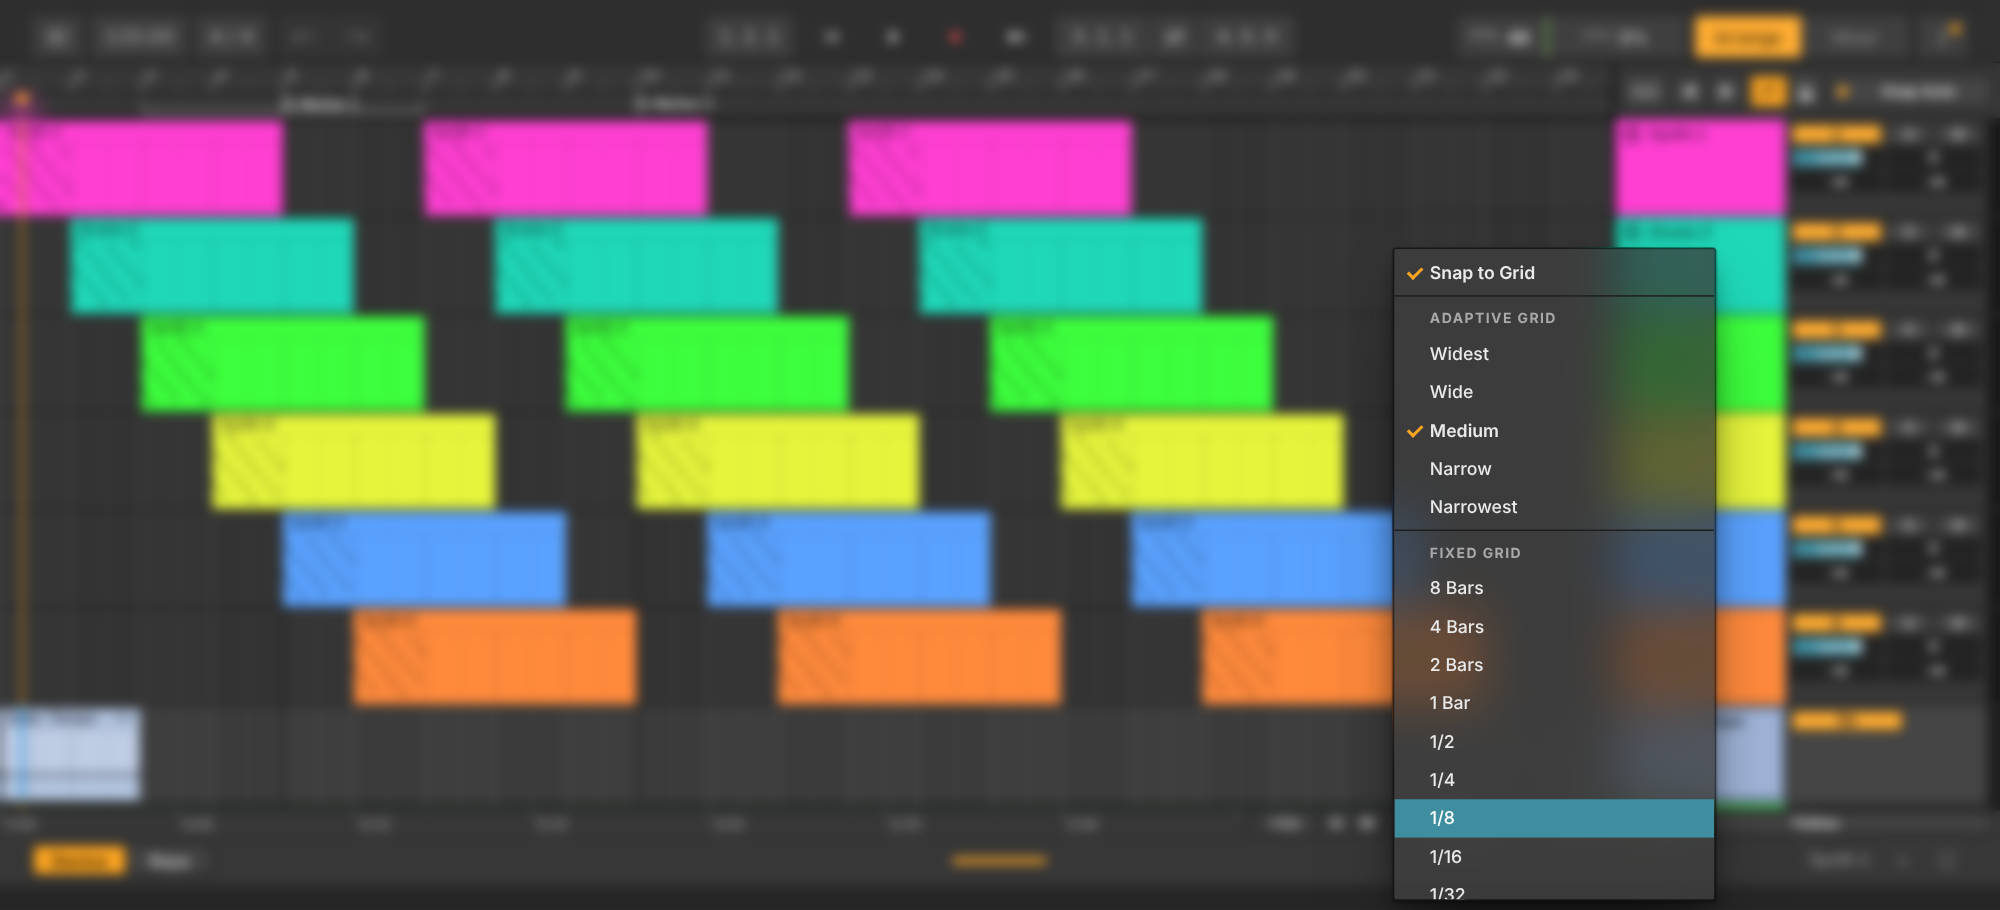
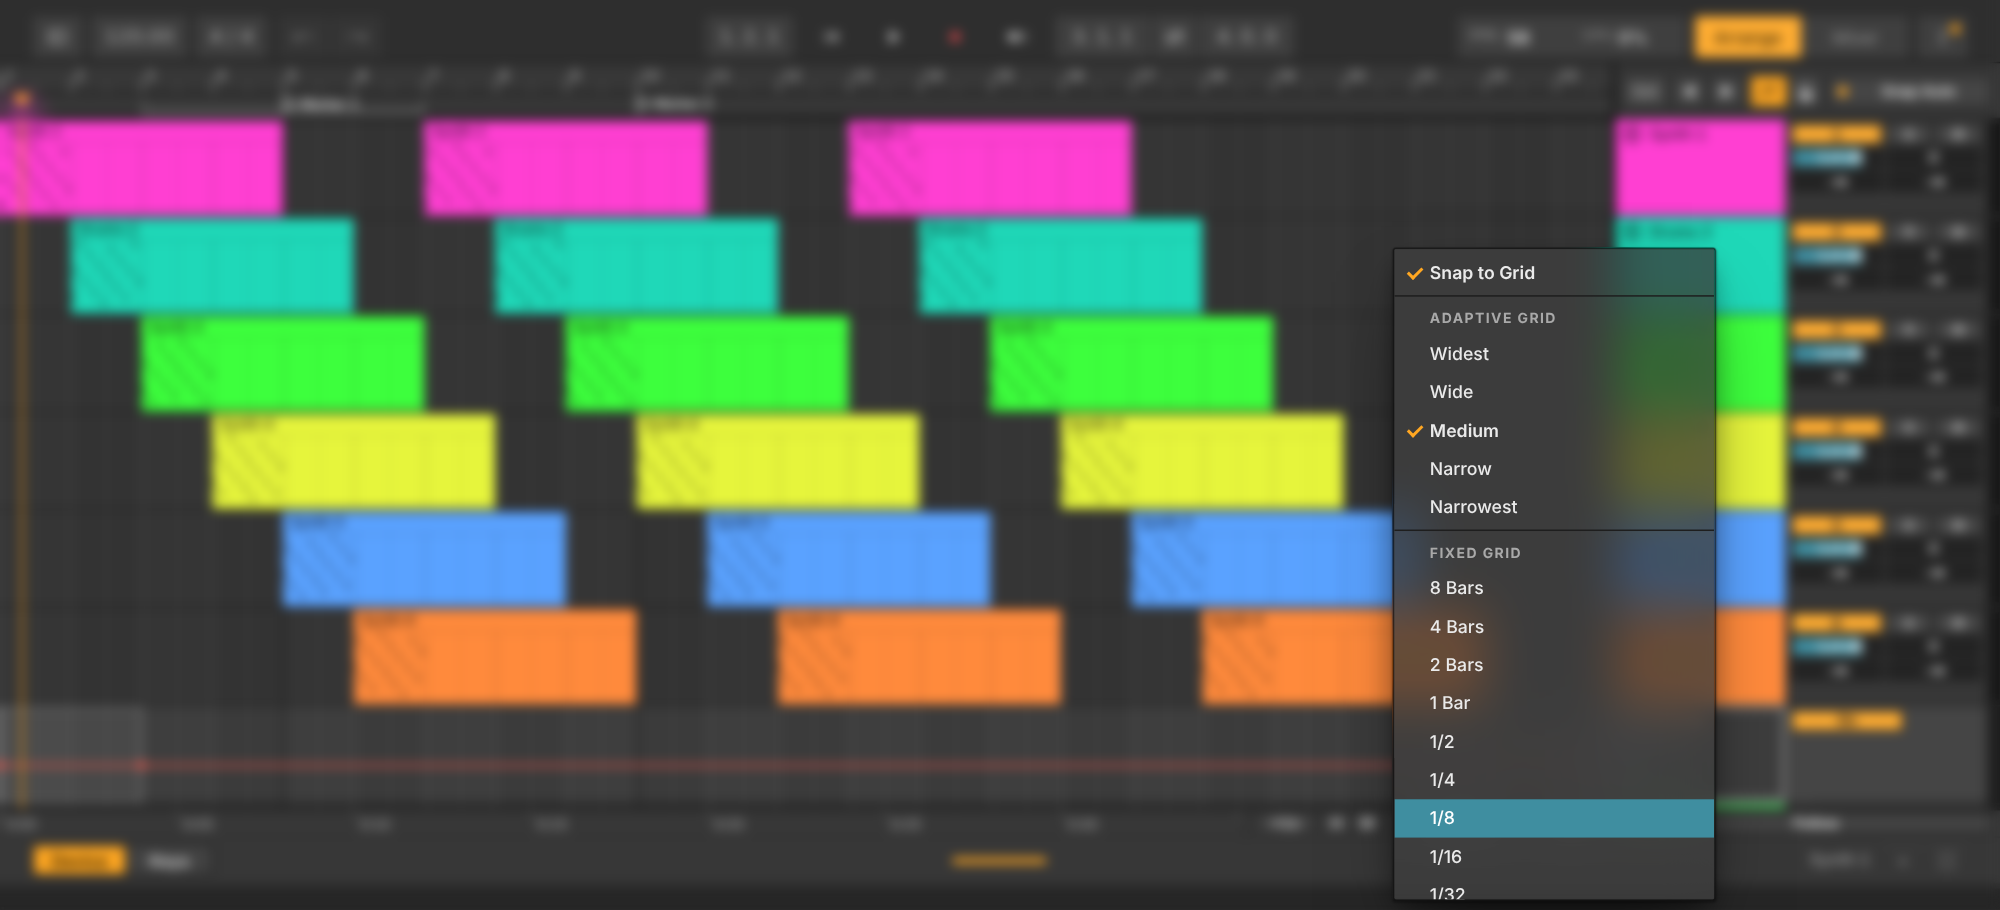
Automation lanes and Main row after Live 12
- automation lanes without clip boxes: one red envelope across the lane, small round breakpoints,
  a slightly darker lane, a grey header with the parent track's colour stripe and the parameter name
- Master / return lanes without a colour wash

Claude-Session: https://claude.ai/code/session_016R99TjSh2G5U2VqVgMNHhT

Changed region(s): [[0.0, 0.7692, 0.682, 0.8923], [0.806, 0.7692, 0.899, 0.8923]]

diff --git a/js/timeline.js b/js/timeline.js
@@ -218,6 +218,9 @@ function ink(hex) {                     // text on a colour: dark on light colou
 
 const contentInk = (hex) => (ink(hex).startsWith('rgba(14') ? 'rgba(10,10,12,.86)' : 'rgba(250,250,252,.88)');   // Live: black content on light clip colours, white on dark ones
 function drawClip(t, c, y, hh) {
+  if (t.kind === 'auto') {                                                    // Live 12: automation has no clip boxes - the lane's envelope is drawn by drawEnvelopes; a selected
+    if (state.sel.clip === c.id || msel.has(c.id)) { const x = tx(c.start), w = c.len * view.ppt; ctx.fillStyle = 'rgba(255,255,255,.07)'; ctx.fillRect(x, y + 1, w, hh - 2); ctx.strokeStyle = 'rgba(255,255,255,.35)'; ctx.lineWidth = 1; ctx.strokeRect(Math.round(x) + 0.5, y + 1.5, Math.max(1, Math.round(w) - 1), hh - 3); }   // piece shows as a light frame
+    return; }
   if (t.fold && t.kind !== 'auto') {                                         // Live: a folded track shows its clips as a thin band in their colour
     const g0 = gl.get(c.id), x = tx(g0 ? g0.s : c.start), w = (g0 ? g0.l : c.len) * view.ppt; if (x > CW || x + w < 0) return;
     const col = c.muted ? '#8a8a8f' : tone(t.color), by = y + 1, bh2 = hh - 2;   // Live 12 (refs/live12-official 04): the folded row is filled by the clip colour, "..." at its start
@@ -337,7 +340,7 @@ function draw() {
   // lanes: one flat grey per track, the selected track a step lighter (as Live highlights the selected track's lane)
   for (let i = Math.max(0, rowAt(RULER)); i <= Math.min(n - 1, rowAt(LB)); i++) {
     const y = rowY(i), h = rh(i); if (h < 2) continue;   // a hidden automation lane (Automation Mode off)
-    ctx.fillStyle = state.sel.track === i ? C('#333337') : C('#2a2a2c'); ctx.fillRect(0, y, CW, h);
+    ctx.fillStyle = state.sel.track === i ? C('#333337') : state.tracks[i].kind === 'auto' ? C('#262628') : C('#2a2a2c'); ctx.fillRect(0, y, CW, h);   // automation lanes a shade darker (Live)
     const sn = subN(state.tracks[i]);
     if (sn) { const mh = rhMain(i), sh = SUBH(), L = P.subsOf(state.tracks[i]); for (let k = 0; k < sn; k++) { const sy = y + mh + k * sh; ctx.fillStyle = C('#262628'); ctx.fillRect(0, sy, CW, sh); if (L[k].mute) { ctx.fillStyle = 'rgba(0,0,0,.18)'; ctx.fillRect(0, sy, CW, sh); } ctx.fillStyle = C('#1a1a1c'); ctx.fillRect(0, sy - 1, CW, 1); } }   // sub-track rows: a shade darker, a thin line above each
     ctx.fillStyle = C('#141416'); ctx.fillRect(0, y + h - 1, CW, 1);                     // Live 12 (refs/live12-official): a thin dark line between tracks
@@ -346,7 +349,7 @@ function draw() {
   for (let i = Math.max(n, rowAt(RULER)); i < nn && i <= rowAt(LB); i++) {             // Master / effect track rows: no clips, they only mix
     const y = rowY(i), h = rh(i), x = xInfo(i);
     ctx.fillStyle = state.sel.track === x.strip ? C('#2f2f33') : C('#252527'); ctx.fillRect(0, y, CW, h);   // theme background first, so the tint below is a real transparent wash in dark AND light themes
-    ctx.fillStyle = washRgba(x.color, 0.06); ctx.fillRect(0, y, CW, h); ctx.fillStyle = C('#141415'); ctx.fillRect(0, y + h - 1, CW, 1);
+     ctx.fillStyle = C('#141415'); ctx.fillRect(0, y + h - 1, CW, 1);
     const src = x.master ? state.tracks.filter((q) => q.kind !== 'auto' && !q.mute).length : state.tracks.filter((q) => q.out === x.k && !q.mute).length;
     xl.push({ y, h, t: `${src} track aktif → ${x.name}` });
   }
@@ -393,6 +396,18 @@ function draw() {
   const first = Math.max(0, rowAt(RULER)), last = Math.min(n - 1, rowAt(LB));
   for (let i = first; i <= last; i++) for (const c of state.tracks[i].clips) { const b = laneBox(i, c); if (b.h < 2) continue; drawClip(state.tracks[i], c, b.y, b.h); }   // a clip of a sub-track sits in its row
   drawHandles();
+  // automation lanes: one continuous envelope across the lane (Live 12): red line, the value held before the first and after the last point,
+  // small round breakpoints; the lane a shade darker than a track's
+  for (let i = first; i <= last; i++) { const t = state.tracks[i]; if (t.kind !== 'auto' || rh(i) < 12) continue;
+    const y0 = rowY(i) + 6, hh = rh(i) - 13, yy = (v) => y0 + hh - clamp(v, 0, 1) * hh, cs = [...t.clips].filter((c) => c.pts && c.pts.length).sort((a, b) => a.start - b.start); if (!cs.length) continue;
+    ctx.save(); ctx.beginPath(); ctx.rect(0, Math.max(RULER, rowY(i)), CW, Math.max(0, Math.min(LB, rowY(i) + rh(i)) - Math.max(RULER, rowY(i)))); ctx.clip();
+    const col = t.mute ? C('#8b8b92') : '#ff5a4e'; ctx.strokeStyle = col; ctx.lineWidth = 1.5; ctx.beginPath(); let st = false, lv = null;
+    for (const c of cs) { const pts = [...c.pts].sort((a, b) => a.t - b.t); if (c.muted) continue;
+      for (const [pt, pv] of densify(pts)) { const X = tx(c.start + pt), Y = yy(pv); if (!st) { ctx.moveTo(Math.min(0, X), Y); st = true; } else if (lv != null && X > tx(c.start) - 0.5 && pt === pts[0].t) ctx.lineTo(X, yy(lv)); ctx.lineTo(X, Y); }
+      lv = pts[pts.length - 1].v; }
+    if (lv != null) ctx.lineTo(CW, yy(lv)); ctx.stroke();
+    ctx.fillStyle = col; for (const c of cs) for (const p of c.pts) { const X = tx(c.start + p.t); if (X > -4 && X < CW + 4) { ctx.beginPath(); ctx.arc(X, yy(p.v), 2.6, 0, 6.2832); ctx.fill(); } }
+    ctx.restore(); }
   // Automation Mode (Live, refs/live12/112-115): the track's automation drawn over its clips - a red line with its breakpoints, the parameter's
   // name at the lane's top left. Display only: the curve is edited on its automation lane. The first visible lane of the track is shown.
   if (autoMode()) for (let i = first; i <= last; i++) {
@@ -676,20 +691,22 @@ function drawHeads() {
     }
     let t = state.tracks[i]; if (rh(i) < 2) continue; { const tc = tone(t.color); if (tc !== t.color) t = { __proto__: t, color: tc }; }
     const on = state.sel.track === i, r = hdr(i), auto = t.kind === 'auto';
-    const nw = r.nw, ik = ink(t.color), fullLook = full();
+    const nw = r.nw, ik = auto ? C('#d0d0d4') : ink(t.color), fullLook = full();
     ctx.fillStyle = on ? C('#3a3a3e') : C('#2c2c2f'); ctx.fillRect(hx, y, HEAD, h - 1);                    // selected track: the mixer column a step lighter
-    ctx.fillStyle = t.color; ctx.fillRect(hx, y, nw, h - 1);                                              // the whole name block in the track colour, as in Live
+    const par = auto && t.target ? state.tracks.find((q) => q.kind !== 'auto' && P.stripOf(state.tracks.indexOf(q)) === t.target.strip) : null;
+    if (auto) { ctx.fillStyle = C('#323236'); ctx.fillRect(hx, y, nw, h - 1); ctx.fillStyle = tone(par ? par.color : t.color); ctx.fillRect(hx, y, 4, h - 1); }   // Live 12: an automation lane's header is grey, a stripe in its track's colour
+    else { ctx.fillStyle = t.color; ctx.fillRect(hx, y, nw, h - 1); }                                     // the whole name block in the track colour, as in Live
     if (t.mute) { ctx.fillStyle = 'rgba(30,30,34,.35)'; ctx.fillRect(hx, y, nw, h - 1); }                  // deactivated track: the block dims
     if (on) { ctx.strokeStyle = ik; ctx.globalAlpha = 0.55; ctx.lineWidth = 2; ctx.strokeRect(hx + 1, y + 1, nw - 2, h - 4); ctx.globalAlpha = 1; }   // selected: an inner outline
     foldTri(hx + 12, y + r.th / 2, !!t.fold, ik);
     ctx.fillStyle = ik; ctx.font = FONT(on ? 600 : 500, 10.5); ctx.textBaseline = 'middle';   // Live: the track name in a regular weight, a step smaller
     const nameR = !fullLook && r.mute ? r.mute.x - 4 : hx + nw - 6;
-    ctx.fillText(cut2((P.isFrozen(i) ? '\u2744 ' : '') + t.name, nameR - hx - 28), hx + 24, y + r.th / 2 + 0.5);   // \u2744 = frozen; one line + ellipsis, never split mid-word
+    ctx.fillText(cut2((P.isFrozen(i) ? '\u2744 ' : '') + (auto ? String(t.name).replace(/^Auto:\s*/, '') : t.name), nameR - hx - 28), hx + 24, y + r.th / 2 + 0.5);   // an automation lane shows its parameter only (Live)   // \u2744 = frozen; one line + ellipsis, never split mid-word
     if (r.mute) drawBtn(r.mute, auto ? 'On' : String(i + 1), !t.mute, T('--lv-or') || T('--mute'));   // Live 12's track activator: orange with the track number
     if (r.solo) drawBtn(r.solo, 'S', t.solo, T('--solo'));
     if (r.arm) drawBtn(r.arm, 'arm', !!t.arm, T('--rec'));
     if (r.aut) drawBtn(r.aut, 'aut', lanes.has(t.id), T('--accent'));
-    if (auto && fullLook && h >= 46) { ctx.fillStyle = ik; ctx.globalAlpha = 0.7; ctx.font = FONT(500, 10); ctx.textBaseline = 'middle'; ctx.fillText('Otomasi', hx + 8, y + TH + 12, nw - 14); ctx.globalAlpha = 1; }
+    if (auto && fullLook && h >= 46) { const pr = state.tracks.find((q) => q.kind !== 'auto' && t.target && P.stripOf(state.tracks.indexOf(q)) === t.target.strip); ctx.fillStyle = ik; ctx.globalAlpha = 0.7; ctx.font = FONT(400, 9.5); ctx.textBaseline = 'middle'; ctx.fillText(cut2(pr ? pr.name : 'Otomasi', nw - 16), hx + 10, y + TH + 10); ctx.globalAlpha = 1; }   // the track it automates, under the parameter
     if (r.out) {                                                                                           // output: a dark field in the mixer column, the destination written in it
       ctx.fillStyle = C('#19191a'); ctx.fillRect(r.out.x, r.out.y, r.out.w, r.out.h); ctx.strokeStyle = C('#141415'); ctx.lineWidth = 1; ctx.strokeRect(r.out.x + 0.5, r.out.y + 0.5, r.out.w - 1, r.out.h - 1);
       ctx.fillStyle = C('#f2f2f4'); ctx.font = FONT(700, r.out.fs || 9.5); ctx.textAlign = 'center'; ctx.fillText(cut2(P.outLabel(t.out), r.out.w - 16), r.out.x + (r.out.w - 10) / 2, r.out.y + r.out.h / 2 + 0.5); ctx.textAlign = 'left';

diff --git a/sw.js b/sw.js
@@ -1,5 +1,5 @@
 // Offline cache. The cache name contains a hash of every file, so a new deploy replaces the old cache automatically.
-const CACHE = 'mobiledaw-b4224fd9b451';
+const CACHE = 'mobiledaw-3328d7c2e5f0';
 const ASSETS = ["./", "./css/app.css", "./css/ableton.css", "./css/float.css", "./css/live.css", "./icons/icon-192.png", "./icons/icon-512.png", "./icons/icon-maskable-512.png", "./index.html", "./js/about.js", "./js/aboutdata.js", "./js/audioedit.js", "./js/autocurve.js", "./js/automate.js", "./js/autosave.js", "./js/browser.js", "./js/chords.js", "./js/colorpick.js", "./js/defs.js", "./js/demos.js", "./js/devices.js", "./js/devviz.js", "./js/drumpad.js", "./js/edgeguard.js", "./js/editor.js", "./js/engine.js", "./js/engine/analog.js", "./js/engine/audioops.js", "./js/engine/cmdtext.js", "./js/engine/core.js", "./js/engine/dsp.js", "./js/engine/drift.js", "./js/engine/ds.js", "./js/engine/fx.js", "./js/engine/fx2.js", "./js/engine/fx3.js", "./js/engine/fx4.js", "./js/engine/fx5.js", "./js/engine/fx6.js", "./js/engine/fx7.js", "./js/engine/fx8.js", "./js/engine/granulator.js", "./js/engine/impulse.js", "./js/engine/instruments.js", "./js/engine/live.js", "./js/engine/meld.js", "./js/engine/meter.js", "./js/engine/mp3.js", "./js/engine/mp3tables.js", "./js/engine/nativesink.js", "./js/engine/operator.js", "./js/engine/phys.js", "./js/engine/poli.js", "./js/engine/sabio.js", "./js/engine/sf2.js", "./js/engine/simpler.js", "./js/engine/flmsyn.js", "./js/engine/hdgms.js", "./js/engine/hdmfx.js", "./js/engine/hdmini.js", "./js/engine/hdsaw.js", "./js/engine/smf.js", "./js/engine/stretchworker.js", "./js/engine/tmap.js", "./js/engine/wav.js", "./js/engine/waveops.js", "./js/engine/mdaw.wasm", "./js/engine/wasmengine.js", "./js/engine/web.js", "./js/engine/worklet-wasm.js", "./js/engine/worklet.js", "./js/floatwin.js", "./js/fps.js", "./js/fxviz.js", "./js/fxkit.js", "./js/flmpanels.js", "./js/flmfx.js", "./js/flm3osc.js", "./js/flmlayout.js", "./js/flmlive.js", "./js/slicerdetect.js", "./js/fxlaw.js", "./js/flmviz.js", "./js/gesture.js", "./js/history.js", "./js/import/als.js", "./js/import/build.js", "./js/import/flm.js", "./js/import/flp.js", "./js/import/fxmap.js", "./js/import/gm.js", "./js/import/index.js", "./js/import/ui.js", "./js/keymap.js", "./js/keys.js", "./js/layout.js", "./js/liveinst.js", "./js/liveui.js", "./js/log.js", "./js/main.js", "./js/midi.js", "./js/midiio.js", "./js/minimeters.js", "./js/mmdraw.js", "./js/native.js", "./js/perf.js", "./js/mixer.js", "./js/prefs.js", "./js/presetlib.js", "./js/presets.js", "./js/project.js", "./js/projects.js", "./js/pwa.js", "./js/quicksave.js", "./js/reorder.js", "./js/safdir.js", "./js/settingsui.js", "./js/storage.js", "./js/tempo.js", "./js/theme.js", "./js/timeline.js", "./js/topbar.js", "./js/touchhit.js", "./js/ui.js", "./js/uiscale.js", "./js/waveform.js", "./js/zip.js", "./manifest.json"];
 self.addEventListener('install', (e) => { e.waitUntil(caches.open(CACHE).then((c) => c.addAll(ASSETS)).then(() => self.skipWaiting())); });
 self.addEventListener('activate', (e) => {

diff --git a/docs/HANDOFF.md b/docs/HANDOFF.md
@@ -768,6 +768,7 @@ Permintaan pemilik: SEMUA efek dan instrumen diganti dengan set stok Ableton Liv
 - **Warna & garis dari sampel piksel referensi resmi** (refs/live12-official/02): lane & ruler tema Dark (Live 12) = #323440; grid gelap sangat halus (3-5 level dari lane); grid juga tergambar samar di badan klip (beat 8%, bar 12% hitam); klip tanpa outline; strip nama warna sama + garis 14%; waveform = nada gelap warna klip (shade 0.72), not = nada tergelap (0.85); pita selang-seling hampir tak terlihat di tema gelap; area scrub warna ruler.
 - **Tema Light (Live 12)** (`live12light`, sampel refs/live12-official 04): lane/ruler/header #a1a5ae, pita #989ca5. Track terlipat: klip mengisi baris dengan warnanya + "..." (Live). Kontrol header 14 px, teks 9.5 px. Perbandingan terang: `docs/redesign/arr/compare-live12-light.png`.
 - **Control bar = Live 12** (sampel refs/live12-official): bar `--panel`, kotak isian/tombol lebih terang 8% putih tanpa garis, radius 2 px, teks abu terang regular 13 px (tempo tidak oranye lagi); isian baru: posisi lagu "1. 1. 1" (`#rd-pos2`, ketuk = ke awal), birama "4 / 4" (`#rd-sig2`, ketuk = jendela Tempo), loop start / saklar loop / panjang loop (`#rd-lst`, `#btn-loop`, `#rd-llen`, ketuk = geser per bar / loop ke klip). Play/rec/stop tanpa kotak. `docs/redesign/arr/controlbar-live12.png`.
+- **Lane otomasi = Live 12**: tanpa kotak klip; satu envelope merah bersambung sepanjang lane (nilai ditahan sebelum titik pertama / sesudah terakhir), titik bulat kecil; lane sedikit lebih gelap; header abu dengan garis warna track induk, nama parameter saja (tanpa "Auto:") dan nama track di bawahnya; potongan otomasi terpilih = bingkai terang. Baris Master / return tanpa rona warna di lane. `docs/redesign/arr/automation-lane-*.png`.
 - Belum: instrumen replika Live (Drift, Operator, Analog, Poli, Meld, Wavetable, Simpler, Impulse, Granulator, Electric/Tension/Collision, DS) tidak diubah; penanda slice di display Slicer belum ada.
 
 - **Card modul FLM = device Live** (permintaan pemilik: bahasa desain, perilaku dan interaksi card FX Ableton Live): `fxkit.js flmLive` + komposisi per modul di `js/flmlive.js` (37 efek + Transistor Bass / Slicer), dibangun dari bagian yang sama dengan panel Live 12 (`k.dk` display gelap, `k.NT` angka oranye, `k.TL`, `lk-ch`). Pola: kolom knob kiri (`L`) | display (`D`: grafik `flmviz`, `handles` yang diseret seperti Live - EQ band bernomor, ring Filter freq/reso, Threshold Compressor / Gate / Limiter, crossover Multiband, X/Y Waveshaper & Multi FX, 8 band Graphic / Tuned EQ; `tabs` = tombol mode di bawah grafik; `rows` = baris angka di dalam display, `table` = tabel band ala Multiband Dynamics; `tap` keyboard Pitcher; `piano` Scale) | baris knob di bawah display (`B`, ala Chorus-Ensemble / Phaser-Flanger / Auto Pan) | kolom kanan (`R`) dengan Dry/Wet di bawah (`'-'`). Equalizer meniru EQ Eight: band terpilih (Freq / Gain / Q di kiri, tombol 1-4 + tipe + channel di bawah display). `{ sw }` = Sync ala Live (menu saat Sync, knob saat bebas). Tes interaksi nyata di `tools/flmfx-shots.mjs` (seret ring Filter, ketuk keyboard Pitcher 2). 3x Osc masih memakai `flmLayout` (tab).
